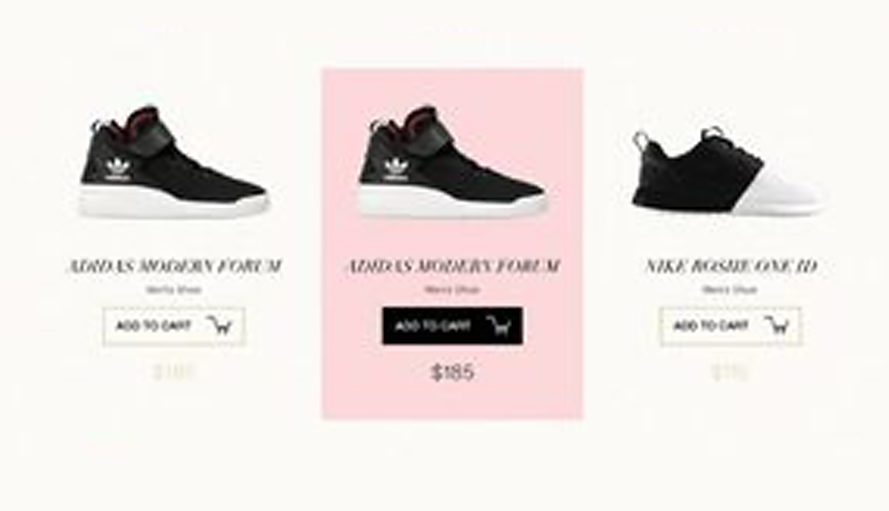
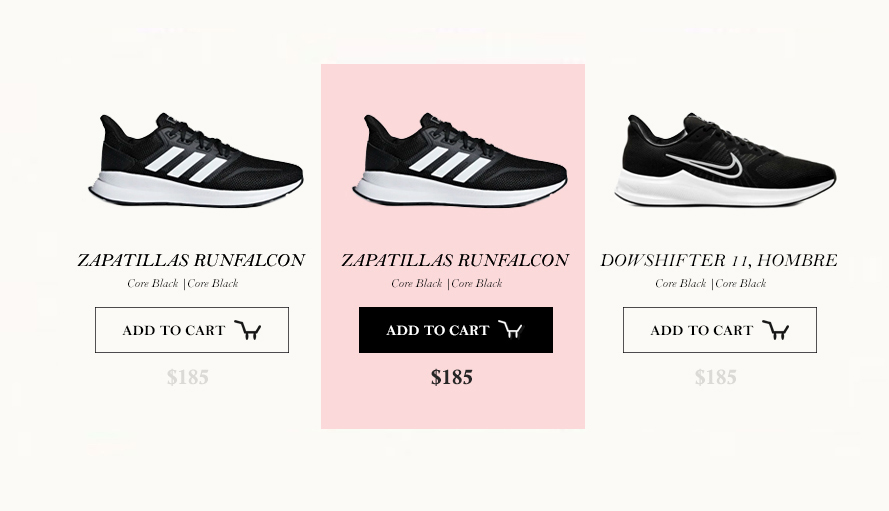
ready all layoutSectionContentOne.jsx, only some details are missing in the 'hovers' of the ClothesCard file and what I was committing

diff --git a/src/components/MainPagesBase/layoutSectionContents/layoutSectionContentOne.jsx b/src/components/MainPagesBase/layoutSectionContents/layoutSectionContentOne.jsx
@@ -32,6 +32,9 @@ import PersonIconF from '../../../assets/Forms/Login/iconPerson.png'
 import TickIconF from '../../../assets/Forms/Login/iconTick.png'
 import TwitterIconF from '../../../assets/Forms/Login/iconTwitterWhite.png'
 import BackgroundImageLoginF from '../../../assets/Forms/Login/backgroundImageLogin.jpg'
+import CartBlackIconC from '../../../assets/Cards/Clothes/cartBlack.png'
+import CartWhiteIconC from '../../../assets/Cards/Clothes/cartWhite.png'
+import ProductClotheCart from '../../../assets/Cards/Clothes/productOneCard.png'
 
 import VideoBackgroundVideoLP from '../../../assets/LandingPages/BackgrondVideo/backgroundV.mp4'
 import BackgroundVideo from '../../landingsPages/BackgroundVideo/layoutBackgroundVideo'
@@ -132,7 +135,10 @@ const LayoutSectionContentOne = () => {
                                             <img src={GoogleIconF} alt="ícono Google +" />
                                             <img src={TwitterIconF} alt="ícono Google +" />
                                         </div> :
-                                        <h2>Soy las demás pero me falta el contenido</h2>   
+                                        <div className='assets-icons-clothes-c'>
+                                            <img src={CartBlackIconC} alt="ícono carrito negro" />
+                                            <img src={CartWhiteIconC} alt="ícono cattito blanco" />
+                                        </div>
                                     }
                                 </div>
                                 <div>
@@ -162,7 +168,7 @@ const LayoutSectionContentOne = () => {
                                         <div className='assets-multimedia-login-F'>
                                             <img src={BackgroundImageLoginF} alt="backgroun image Login F" />
                                         </div> :
-                                        <h2>SOY LAS OTRAS</h2>
+                                        <img className='assets-multimedia-Clothes-C' src={ProductClotheCart} alt="Zapatilla adidas" />
                                     }
                                 </div>
                                 <div>
@@ -177,7 +183,7 @@ const LayoutSectionContentOne = () => {
                                         location.pathname === '/homes' ? <h4>none</h4> :
                                         location.pathname === '/details' ? <h4>none</h4> :
                                         location.pathname === '/forms' ? <h4>none</h4> :
-                                        <div><h2>soy las otras</h2></div> 
+                                        <h4>none</h4>
                                     }
                                 </div>
                                 <div>
@@ -211,7 +217,11 @@ const LayoutSectionContentOne = () => {
                     location.pathname === '/homes' ? <PersonalPage/> :
                     location.pathname === '/details' ? <ClothesDetail/> :
                     location.pathname === '/forms' ? <LoginForm/> :
-                    <ClothesCard/>
+                    <div className='clothes-card-order-section-content-one'>
+                        <ClothesCard/>
+                        <ClothesCard/>
+                        <ClothesCard/>
+                    </div>
                 }
             </section>
 

diff --git a/src/components/Cards/Clothes/clothesCard.css b/src/components/Cards/Clothes/clothesCard.css
@@ -6,8 +6,11 @@
 .box-macro-clothes-card{
     /* border: solid; */
     background-color: #fbfaf6;
-    width: 300px;
-    height: 370px;
+    width: 400px;
+    height: 510px;
+    display: flex;
+    flex-direction: column;
+    align-items: center;
 }
 .box-macro-clothes-card:hover{
     background-color: #fcd8da;
@@ -17,8 +20,8 @@
     display: flex;
     justify-content: center;
     align-items: center;
-    width: 100%;
-    height: 20vh;
+    width: 90%;
+    height: 30vh;
 }
 .image-product-clothes-card{
     width: 100%;
@@ -34,8 +37,8 @@
 }
 .titel-product-clothes-card{
     /* border:solid; */
-    font-size: 17px;
-    padding-top: 3px;
+    font-size: 25px;
+    margin-bottom: 5px;
 }
 .description-product-clothes-card{
     font-size: 12px;
@@ -43,17 +46,40 @@
 }
 .button-add-cart-clothes-card{
     display: flex;
-    justify-content: center;
     align-items: center;
-    justify-content: space-around;
+    justify-content: space-between;
     background-color: #fbfaf6;
     border: solid thin;
-    width: 170px;
-    padding-top: 7px;
-    padding-bottom: 7px;
+    width: 230px;
+    padding-left: 45px;
+    padding-top: 15px;
+    padding-bottom: 15px;
     font-weight: 600;
+    background-image: url('../../../assets/Cards/Clothes/cartBlack.png');
+    background-size: 20px;
+    background-repeat: no-repeat;
+    background-position: 150px;
+    background-position-y: center;
+
 }
 .button-add-cart-clothes-card:hover{
     background-color: black;
     color: white;
+    background-image: url('../../../assets/Cards/Clothes/cartWhite.png');
+    background-size: 20px;
+    background-repeat: no-repeat;
+    background-position: 150px;
+    background-position-y: center;
+    border: none;
+}
+.box-text-product-clothes-card>p:nth-of-type(2){
+    color: #dbdad6;
+    font-weight: 600;
+    font-size: 30px;
+    margin-top: 10px;
+}
+.box-text-product-clothes-card>p:nth-of-type(2):active,
+.box-text-product-clothes-card>p:nth-of-type(2):focus,
+.box-text-product-clothes-card>p:nth-of-type(2):hover{
+    color: #222222;
 }

diff --git a/src/components/Cards/Clothes/ClothesCard.jsx b/src/components/Cards/Clothes/ClothesCard.jsx
@@ -1,6 +1,6 @@
 import './clothesCard.css'
 import ProductOne from '../../../assets/Cards/productOneCard.png'
-import  CartBlack from '../../../assets/Cards/cartBlack.png'
+import CartBlack from '../../../assets/Cards/Clothes/cartBlack.png'
 
 const ClothesCard = () => {
     return(
@@ -10,12 +10,10 @@ const ClothesCard = () => {
                 <img className='image-product-clothes-card' src={ProductOne} alt="Imagen producto" />
             </div>
             <div className='box-text-product-clothes-card'>
-                <h3 className='titel-product-clothes-card'><i>SOY EL NOMBRE DEL PRODUCTO</i></h3>
-                <p className='description-product-clothes-card'>Soy el modelo</p>
-                <button className='button-add-cart-clothes-card'>ADD TO CART
-                    <img src={CartBlack} alt="Ícono carrito de compras" />
-                </button>
-                <p>$--</p>
+                <h3 className='titel-product-clothes-card'><i>ZAPATILLAS RUNFALCON</i></h3>
+                <p className='description-product-clothes-card'><i>Core black | Core black</i></p>
+                <button className='button-add-cart-clothes-card'>ADD TO CART</button>
+                <p>$185</p>
             </div>
         </div>
 

diff --git a/src/components/MainPagesBase/layoutSectionContents/layoutSectionContent.css b/src/components/MainPagesBase/layoutSectionContents/layoutSectionContent.css
@@ -229,11 +229,18 @@
 }
 .assets-icons-minimalist-h,
 .assets-icons-clothes-D,
-.assets-icons-login-f{
+.assets-icons-login-f,
+.assets-icons-clothes-c{
     display: flex;
     justify-content: center;
     align-items: center;
     flex-wrap: wrap;
+}
+.assets-icons-clothes-c>img{
+    width: 30%;
+}
+.assets-icons-clothes-c>img:first-child{
+    margin-right: 20px;
 }
 .assets-icons-minimalist-h>img,
 .assets-icons-login-f>img{
@@ -264,8 +271,15 @@
     width: 25%;
     margin-left: 20px;
 }
-.assets-multimedia-login-F>img{
+.assets-multimedia-login-F>img,
+.assets-multimedia-Clothes-C{
     width: 60%;
-
 }
-
+.clothes-card-order-section-content-one{
+    background-color: white;
+    width: 100%;
+    height: 90vh;
+    display: flex;
+    justify-content: center;
+    align-items: center;
+}
